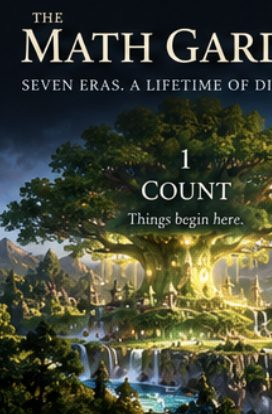
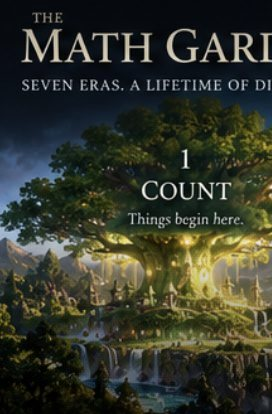
Tapestry polish: mute baked labels, clear Continue overlap

diff --git a/index.html b/index.html
@@ -39,7 +39,11 @@ button{font:inherit;color:inherit;cursor:pointer;border:0;background:none}
 .land-brand .kicker{font-size:.68rem;letter-spacing:.2em;text-transform:uppercase;opacity:.85;margin-bottom:.25rem}
 .land-brand h1{margin:0;font-size:clamp(1.35rem,2.8vw,2rem);font-weight:700;letter-spacing:-.02em;text-shadow:0 2px 18px rgba(0,0,0,.55)}
 .land-brand .sub{margin:.2rem 0 0;font-size:.78rem;opacity:.8;letter-spacing:.06em}
-.land-quote{max-width:16rem;text-align:center;font-family:Fraunces,Georgia,serif;font-style:italic;font-size:clamp(.75rem,1.4vw,.95rem);opacity:.88;text-shadow:0 2px 12px rgba(0,0,0,.5);margin-top:.35rem}
+.land-quote{
+  max-width:15rem;text-align:center;font-family:Fraunces,Georgia,serif;font-style:italic;
+  font-size:clamp(.7rem,1.2vw,.85rem);opacity:.72;text-shadow:0 2px 14px rgba(0,0,0,.75);
+  margin-top:.35rem; padding:.35rem .55rem; border-radius:.5rem; background:rgba(0,0,0,.28);
+}
 .land-user{font-size:.78rem;opacity:.9;text-align:right;text-shadow:0 2px 10px rgba(0,0,0,.5)}
 
 .panels{
@@ -57,7 +61,8 @@ button{font:inherit;color:inherit;cursor:pointer;border:0;background:none}
 }
 .panel::after{
   content:""; position:absolute; inset:0; z-index:1;
-  background:linear-gradient(180deg, rgba(0,0,0,.35) 0%, rgba(0,0,0,.05) 35%, rgba(0,0,0,.55) 78%, rgba(0,0,0,.78) 100%);
+  background:
+    linear-gradient(180deg, rgba(0,0,0,.45) 0%, rgba(0,0,0,.08) 28%, rgba(0,0,0,.15) 48%, rgba(0,0,0,.72) 82%, rgba(0,0,0,.88) 100%);
   pointer-events:none;
 }
 .panel img{
@@ -71,7 +76,8 @@ button{font:inherit;color:inherit;cursor:pointer;border:0;background:none}
 .panel.locked:hover img{transform:scale(1.04)}
 .panel-body{
   position:absolute; inset:auto 0 0 0; z-index:2;
-  padding:1.1rem .85rem 1.35rem; color:#fff;
+  padding:1rem .8rem 1.5rem; color:#fff;
+  background:linear-gradient(180deg, transparent, rgba(0,0,0,.55) 30%, rgba(0,0,0,.75));
 }
 .panel-num{font-size:.7rem;letter-spacing:.22em;opacity:.75;font-weight:600}
 .panel-name{font-family:Fraunces,Georgia,serif;font-size:clamp(1.15rem,2vw,1.65rem);font-weight:700;margin:.15rem 0;letter-spacing:-.01em;text-shadow:0 2px 14px rgba(0,0,0,.6)}
@@ -79,13 +85,14 @@ button{font:inherit;color:inherit;cursor:pointer;border:0;background:none}
 .panel-frac{margin-top:.55rem;font-size:.65rem;opacity:.75;font-variant-numeric:tabular-nums}
 .panel-lock{position:absolute;top:.85rem;right:.75rem;z-index:2;font-size:.85rem;opacity:.85}
 .land-foot{
-  position:absolute; bottom:.7rem; right:1.2rem; z-index:5;
-  font-family:Fraunces,Georgia,serif; font-style:italic; font-size:.78rem; opacity:.8;
-  text-shadow:0 2px 10px rgba(0,0,0,.5);
+  position:absolute; bottom:1.15rem; left:50%; transform:translateX(-50%); z-index:5;
+  font-family:Fraunces,Georgia,serif; font-style:italic; font-size:.72rem; opacity:.75;
+  text-shadow:0 2px 10px rgba(0,0,0,.7); pointer-events:none;
+  padding:.25rem .65rem; border-radius:999px; background:rgba(0,0,0,.35);
 }
 
 /* ── World tapestry ── */
-.world-shell{min-height:100dvh; min-height:100vh; display:flex; flex-direction:column}
+.world-shell{min-height:100dvh; min-height:100vh; display:flex; flex-direction:column; padding-bottom:5.5rem}
 .world-bar{
   display:flex; align-items:center; justify-content:space-between; gap:.75rem;
   padding:.75rem 1.1rem; border-bottom:1px solid var(--line); background:rgba(7,11,18,.92);
@@ -100,8 +107,8 @@ button{font:inherit;color:inherit;cursor:pointer;border:0;background:none}
 .ghost:hover{color:var(--ink)}
 
 .tapestry-stage{
-  position:relative; flex:1; min-height:min(72vh,780px);
-  border-bottom:1px solid var(--line); overflow:hidden; touch-action:none; cursor:grab;
+  position:relative; flex:1; min-height:min(68vh,720px);
+  margin-bottom:0; border-bottom:1px solid var(--line); overflow:hidden; touch-action:none; cursor:grab;
   background:#0b1018;
 }
 .tapestry-stage.panning{cursor:grabbing}
